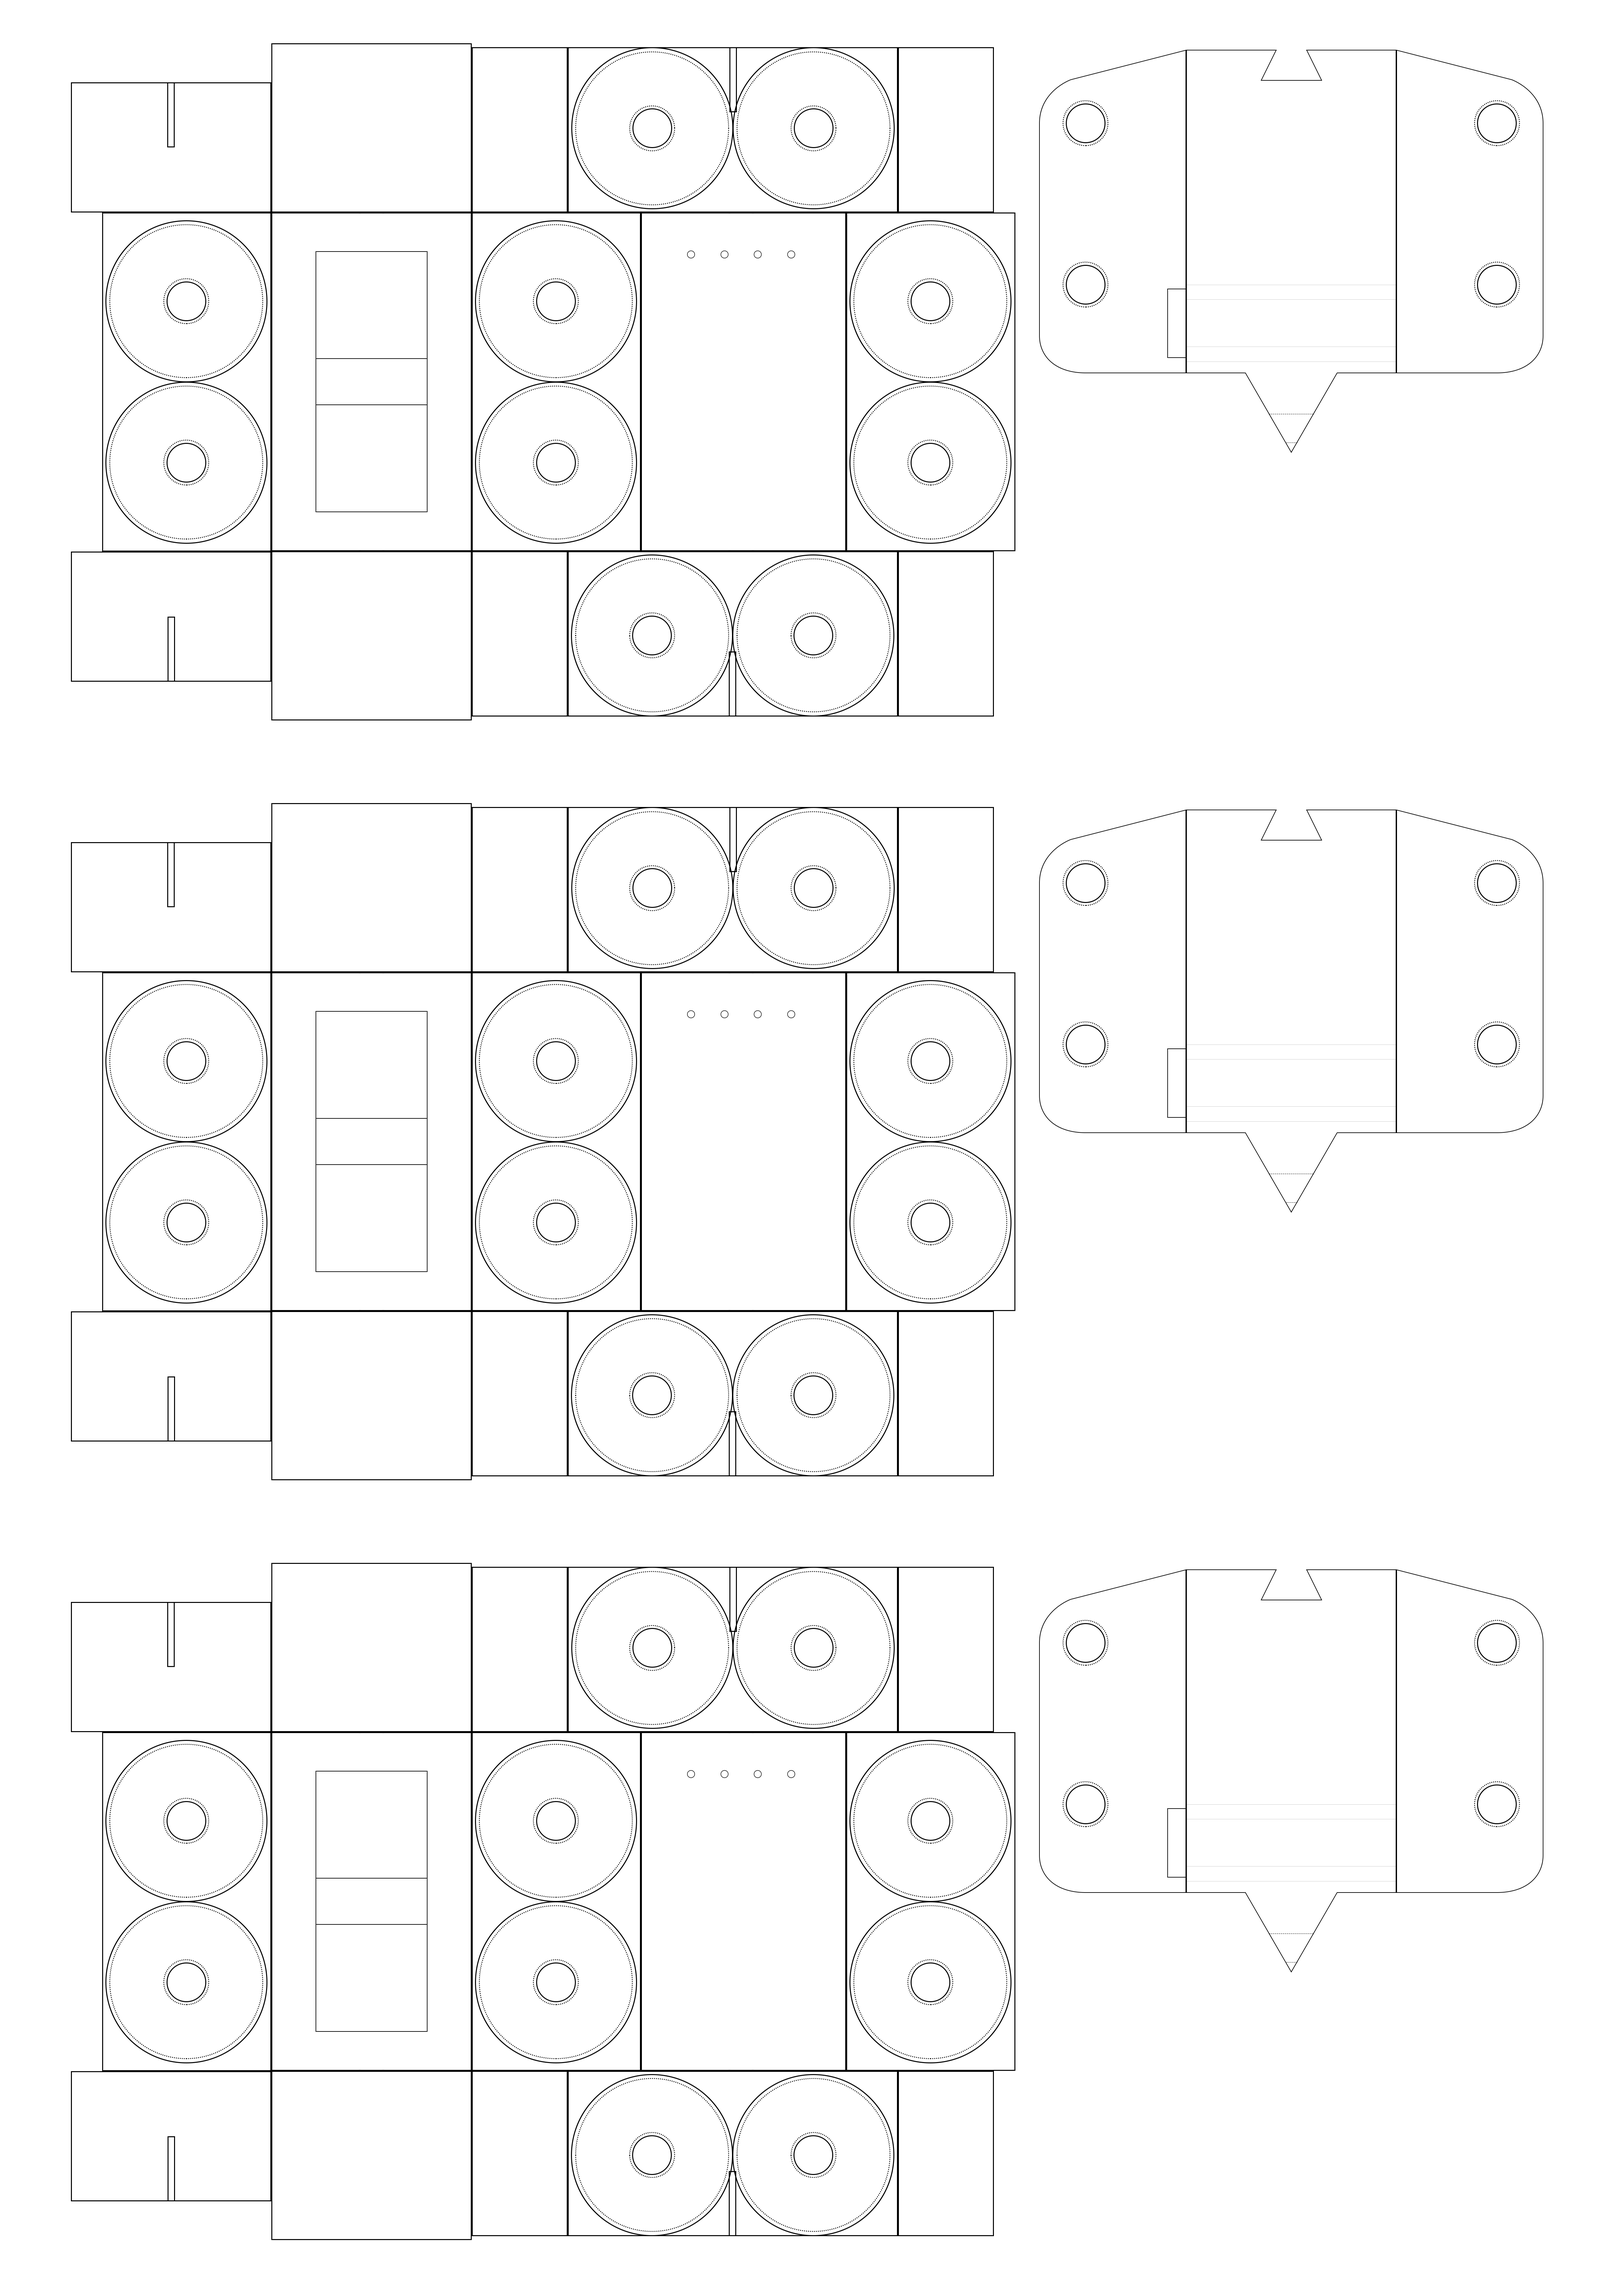
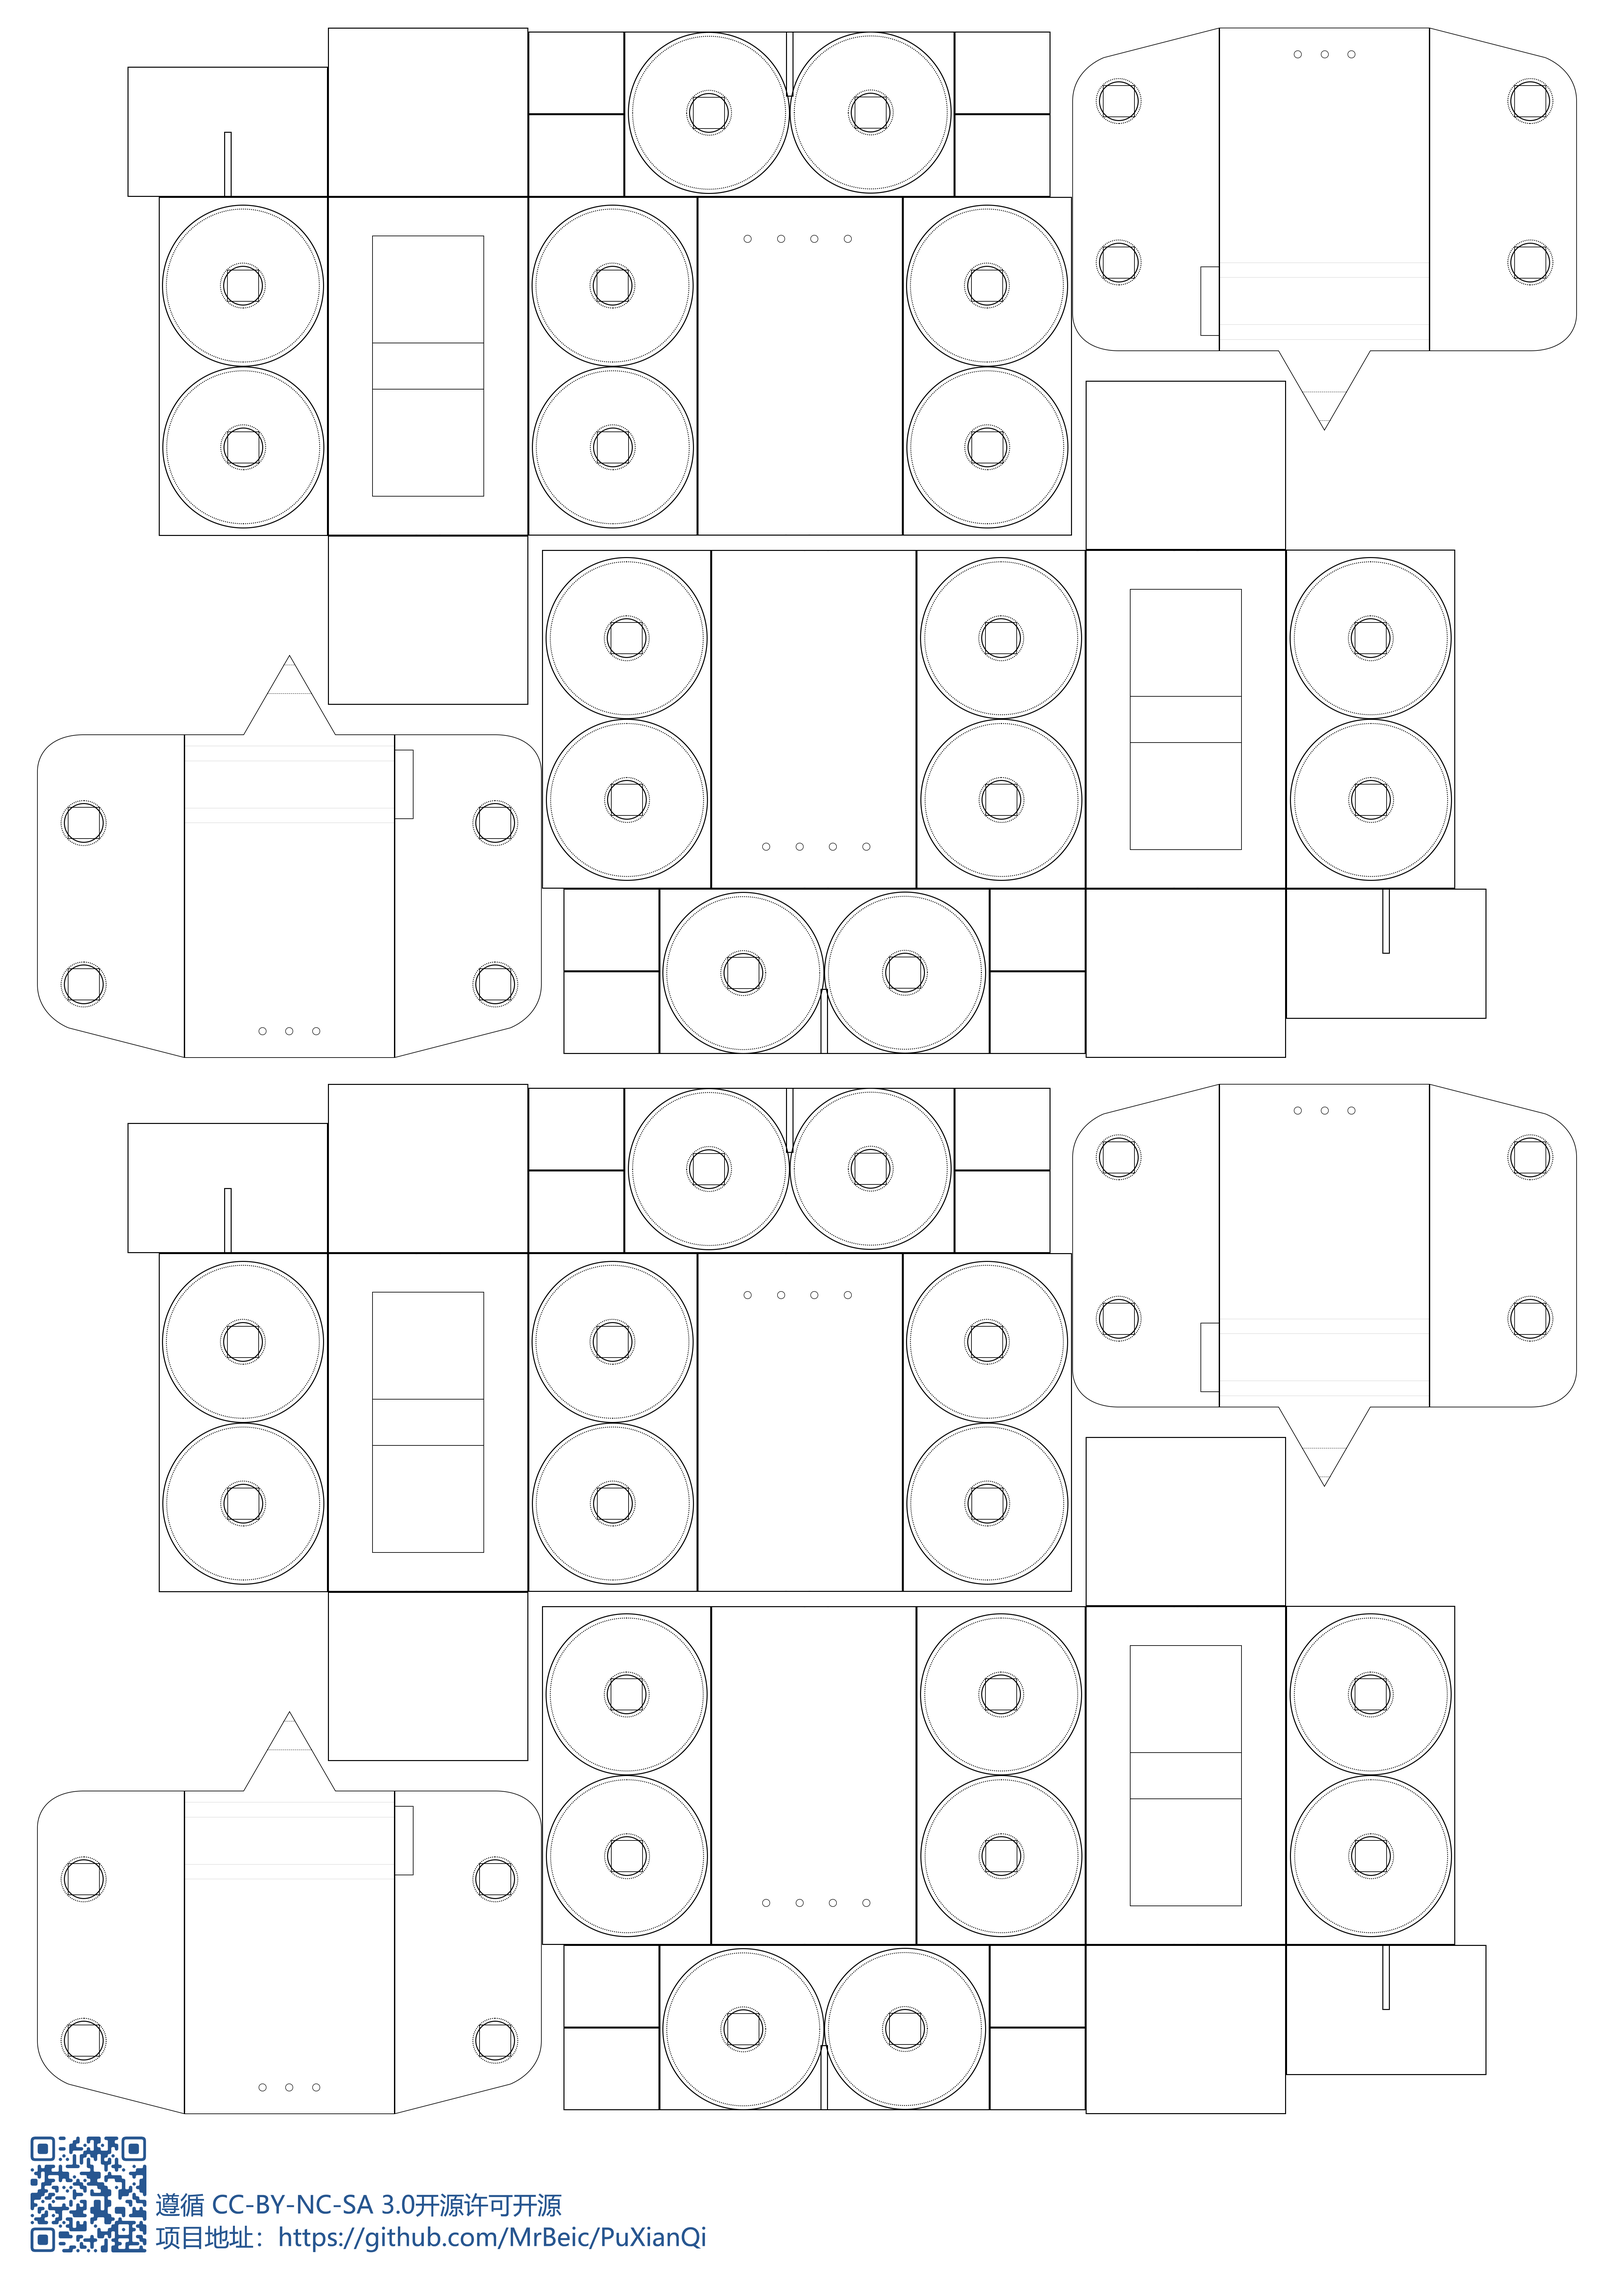
v2.0.10

diff --git a/README.md b/README.md
@@ -45,6 +45,7 @@ CC-BY-NC-SA 3.0 开源许可介绍：https://creativecommons.org/licenses/by-nc-
 
 ### 更新日志：
 
+
 #### v2.0.3 2024-02-21 19:03:05
 
 	增加了线梳图纸
@@ -58,3 +59,7 @@ CC-BY-NC-SA 3.0 开源许可介绍：https://creativecommons.org/licenses/by-nc-
 #### v2.0.7 2024-02-26 02:29:43
 
 	改进线梳线夹平台细节
+
+#### v2.0.8 ~ v2.0.10 2024-03-28 00:34:25
+
+	简化内部部件，优化细节
